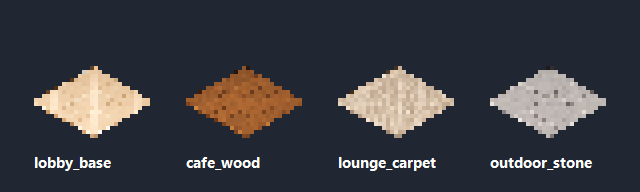
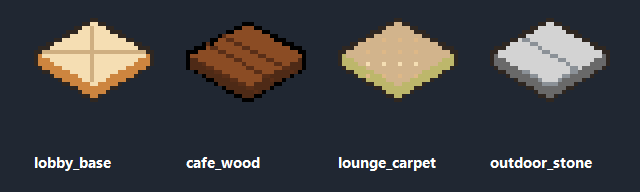
fix: sharpen first-floor base tiles

diff --git a/docs/first-floor/01_TO_04_FOUNDATION.md b/docs/first-floor/01_TO_04_FOUNDATION.md
@@ -114,4 +114,4 @@
 
 ## 현재 진행
 
-5단계의 기본 바닥 타일 4종을 제작했다. 바닥 경계·모서리·전환 타일이 준비되기 전에는 맵 조립이나 게임 기능을 추가하지 않는다.
+5단계의 기본 바닥 타일 4종을 선명한 네이티브 32×32 픽셀 에셋으로 다시 제작했다. 바닥 경계·모서리·전환 타일이 준비되기 전에는 맵 조립이나 게임 기능을 추가하지 않는다.
